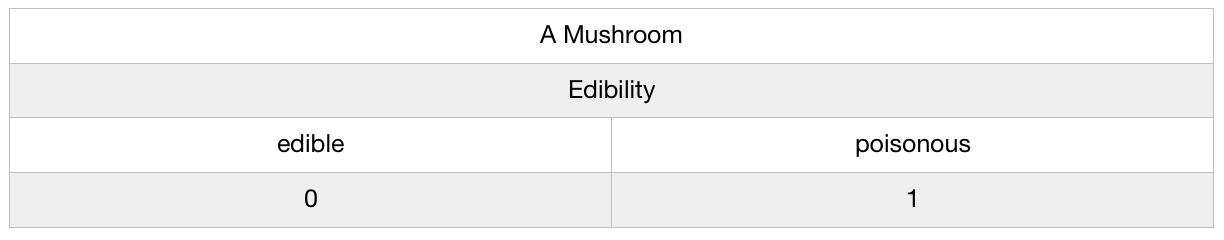
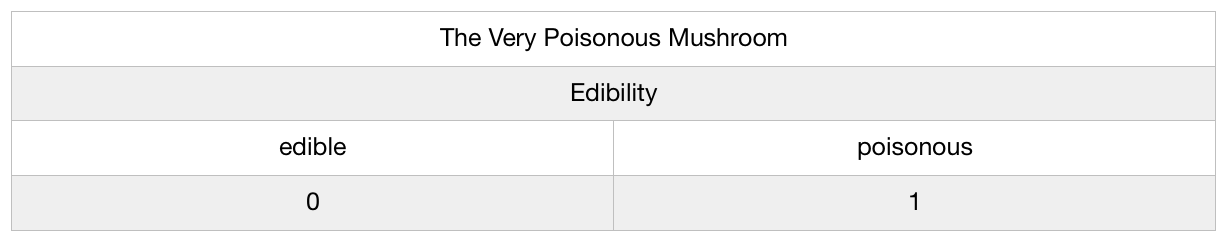
Update the new article.

diff --git a/_posts/2018-02-05-neural-network-for-picking-mushrooms.md b/_posts/2018-02-05-neural-network-for-picking-mushrooms.md
@@ -7,55 +7,75 @@ categories: scala ann knn
 comments: true
 ---
 
-Imagine yourself in a forest picking mushrooms, just for fun or, probably, not to starve to death. How do you decide if a mushroom is edible or poisonous? Is there a way to utilize a neural network to help you with the decision? And, finally, can you come up with a simpler, but more efficient solution? Let's figure it out!
+Imagine yourself in a forest picking mushrooms, just for fun or, probably, not to starve to death. How do you decide if a mushroom is edible or poisonous? Is there a way to utilize an artificial neural network to help you with the decision? And, finally, can you come up with a simpler, but more efficient solution? Let's figure it out!
+
+<img alt="Mushroom" src="{{ site.url }}{{ page.image }}">
 
 ### Test Data
 
 Before we start, we need to study some mushrooms to collect the test data. Unfortunately, currently there is a winter in my region, so at the moment it is difficult for me to collect the data myself. But, luckily, the test data is already available in the [UC Irvine Machine Learning Repository](https://archive.ics.uci.edu/ml/datasets/mushroom).
 
-### Artificial Neural Network
+I am splitting the data into two equal parts. The first part is called *training data*. It will be used to train the neural network. The second part is called *evaluation data*. It will be used to evaluate how well the neural network can classify unknown mushrooms as edible or poisonous.
 
-I am splitting the data into 2 equal parts. The first part is called *training data*. It will be used to train the neural network. The second part is called *evaluation data*. It will be used to evaluate how well the neural network can classify unknown mushrooms as edible or poisonous.
+### Artificial Neural Network: Design
 
-The neural network should take a mushroom as a parameter and say if it is edible or poisonous. The input layer of the neural network consists of a certain number of the neurons. In our case, each neuron can get a value from 0 to 1 inclusively. The same for the output layer: it has a given number of neurons, each neuron can take a value from 0 to 1 inclusively.
+The neural network should take a mushroom as an input and say if it is edible or poisonous. The input layer of the neural network consists of a certain number of neurons. In our case, each neuron can take a value from 0 to 1 inclusively. The same for the output layer: it has a given number of neurons, each neuron can return a value from 0 to 1 inclusively.
+
+You can think of the neural network as a function. The function takes multiple parameters. Each parameter may vary from 0 to 1. The function returns multiple values. Each return value also varies from 0 to 1.
 
 Let's, first of all, decide, how many neurons the input layer should have and how to represent a mushroom as the input.
 
 Each mushroom has 22 features (like cap shape, odor, veil color, etc.). Each feature can take from 2 to 12 values. For example, the veil color can be brown, orange, white or yellow.
 
-There is [a number of ways](https://www.researchgate.net/post/How_to_code_categorical_inputs_for_a_neural_network) how to "feed" such mushroom to the neural network. It will be quite easy to explain by the simplified example the way I picked for our task.
+There is [a number of ways](https://www.researchgate.net/post/How_to_code_categorical_inputs_for_a_neural_network) how to "feed" such mushroom to the neural network. I'm going to explain by example the way I picked for our mushroom problem.
 
-Imagine for simplicity that each mushroom has only 2 features: veil type and veil color. Veil type can be partial or universal, veil color can be brown, orange, white or yellow. Such potential mushroom can be described by the below table. For the concrete mushroom I meet in the forest I can replace question marks with a value. The value will be 0 or 1.
+Imagine for simplicity that each mushroom has only 2 features: veil type and veil color. The veil type can be _partial_ or _universal_, the veil color can be _brown_, _orange_, _white_ or _yellow_. Such potential mushroom can be described by the below table.
 
-<img alt="A Mushroom" src="{{ site.url }}/assets/a-mushroom.png">
+<img alt="An Abstract Mushroom" src="{{ site.url }}/assets/an-abstract-mushroom.png">
 
-Imagine I met the mushroom with the partial white veil. Then the table will look like on the next picture. The 0's and the 1's form the `(1, 0, 0, 0, 1, 0)` vector which will be passed to the neural network.
+Imagine I met the mushroom with the _partial white_ veil. This means I can substitute question marks with values. Each value will be 0 or 1. The table now looks like on the below picture. The zeros and the ones now form the `(1, 0, 0, 0, 1, 0)` vector which I can pass to the neural network.
 
-<img alt="The Concrete Mushroom" src="{{ site.url }}/assets/first-mushroom.png">
+<img alt="The Mushroom With The Partial White Veil" src="{{ site.url }}/assets/the-mushroom-with-the-partial-white-veil.png">
 
-If it was the universal yellow veil, the vector would be `(0, 1, 0, 0, 0, 1)`. I hope you can catch the idea now.
+Similarly, if it was the _universal yellow_ veil, the vector would be `(0, 1, 0, 0, 0, 1)`. I hope you can catch the idea now.
 
-Applying the above approach for the real (slightly bigger) number of features, I have the 126 neurons in the input layer. The same approach, applied to the output layer, gives me 2 neurons: the first represents the degree of edibility of a mushroom, the second represents the degree of poisonousness. If, for example, I deal with the poisonous mushroom, the output will be `(0, 1)`<sup>*</sup>.
+Applying the above approach to the real 22 features, I have the 126 neurons in the input layer. The same approach, applied to the output layer, gives me 2 neurons: the first represents the degree of edibility of a mushroom, the second represents the degree of poisonousness. If, for example, I deal with the very poisonous mushroom, the output is `(0, 1)`<sup>*</sup>.
 
 <img alt="Output Layer" src="{{ site.url }}/assets/output-layer.png">
 
-I decided to use perceptron as the type of the network because it [fits well](https://en.wikipedia.org/wiki/Perceptron) the classification problem I am solving. I added the third layer, which is called the dense layer. It is located between input and output layers and has ten neurons. Why ten? Well, there are a [lot of rules of thumb](https://stats.stackexchange.com/questions/181/how-to-choose-the-number-of-hidden-layers-and-nodes-in-a-feedforward-neural-netw) how to pick the number of the neurons in the hidden layer. The real value is always a matter of experiments and optimization. I picked ten using one of such rules of thumb. It is a good value to start with.
+Having agreed on how to represent the inputs and the outputs of the neural network, let's then briefly discuss its type and its hidden layers.
 
-Now, as we agreed on the configuration of the neural network, I already can try to build and train it. To do this I will use [NeuroFlow](https://github.com/zenecture/neuroflow), a powerful Scala library to design, train and evaluate neural networks.
+I decided to use perceptron as the a of the network because it [fits well](https://en.wikipedia.org/wiki/Perceptron) the classification problem I am solving. I added a hidden layer, which is also called a dense layer. It is located between input and output layers and has ten neurons. Why ten? Well, there are a [lot of rules of thumb](https://stats.stackexchange.com/questions/181/how-to-choose-the-number-of-hidden-layers-and-nodes-in-a-feedforward-neural-netw) how to pick the number of the neurons in the hidden layer. The real value is always a matter of experiments and optimization. I picked ten using one of such rules of thumb. It is a good value _to start with_.
 
-<img alt="The Concrete Mushroom" src="{{ site.url }}/assets/training.png">
+### Artificial Neural Network: Training And Evaluation
 
-After the training that took 900 iterations, I can now test the resulting neural network on the real data. The "real data" is the subset of the mushrooms that I had, but it was previously put aside and not used during the neural network training. The tests show that even without the optimization of the network parameters, **the rate<sup>**</sup> of the correct answers is 0.92**, which is quite good.
+Now, as we agreed on the configuration of the neural network, I am ready to build and train it. To do this I will use [NeuroFlow](https://github.com/zenecture/neuroflow), a powerful Scala library to design, train and evaluate neural networks.
 
-### K Nearest Neighbours
+<img alt="Training" src="{{ site.url }}/assets/training.png">
 
-As a small bonus, let's try another algorithm, which is super simple, but shows unexpectedly good results for some tasks. Namely, let's utilize k-nearest neighbours and compare its results with results of the neural network.
+After the training that took 900 iterations, I can now test the resulting neural network on the real data. The "real data" is the subset of the mushrooms that I had, that I previously put aside and didn't use for the neural network training. The tests show that even without the optimization of the network parameters, **the proportion<sup>**</sup> of the correct answers is 0.92**, which is quite good.
 
-The idea of the algorithm is really straightforward: given a mushroom about which I don't know if it is edible or poisonous, I have to find the mushroom from my test data that is the most similar to one I have to classify. Then the edibility of the most similar one will be the edibility I am trying to find.
+Can I improve the result? Apparently, yes. For example, I still could play with the neural network configuration and find the best one. I also could deal with the training data [in the more optimal way](https://towardsdatascience.com/cross-validation-in-machine-learning-72924a69872f), not just by splitting it in half. However, there is another unexpectedly simple algorithm that shows _really_ good results for the mushrooms problem.
 
-The algorithm can be improved by picking multiple most similar mushrooms, say, 3. In this case, the class, that the most of the similar mushrooms have, is going to be the one we are looking for.
+### K Nearest Neighbours: The Main Idea
 
-The main thing I need to decide here is how to measure the similarity. There are [quite a few](https://en.wikipedia.org/wiki/Metric_(mathematics)) ways how I can do it, but the [Hamming distance](https://en.wikipedia.org/wiki/Hamming_distance) fits my needs very well. The "distance" between two mushrooms will be a number of features in which the mushrooms have different values. The shorter the distance, the more similar the mushrooms are. If the first one has the brown cap and the white stalk, and the second one also has the brown cap, but the gray stalk, the distance will be 0 + 1 = 1. If we are comparing 2 identical mushrooms, the number of features with different values is, obviously, 0, so the distance also is 0, as expected.
+As agreed above, let's utilize k-nearest neighbours and compare its results with results of the neural network.
+
+The idea of the algorithm is really straightforward: given a mushroom about which I don't know if it is edible or poisonous, I have to find the mushroom from my test data that is _the most similar_ to one I have to classify. Then the edibility of the most similar one will be the edibility I am trying to find.
+
+The algorithm can be improved by picking multiple most similar mushrooms, say, three. In this case, the edibility that the most of these three mushrooms have is going to be the one I'm looking for.
+
+### K Nearest Neighbours: Similarity Of Two Mushrooms
+
+The main thing I need to decide here is how to measure the similarity. There are [quite a few](https://en.wikipedia.org/wiki/Metric_(mathematics)) ways how I can do it, but the [Hamming distance](https://en.wikipedia.org/wiki/Hamming_distance) fits my needs very well. The Hamming distance between two mushrooms is a number of features in which the mushrooms have different values. The smaller the distance, the more similar the mushrooms are.
+
+If the first mushroom has the _brown_ cap and the _white_ stalk, and the second one also has the _brown_ cap, but the _gray_ stalk, the distance will be 1, as they differ only in one feature, only in the stalk color.
+
+<img alt="Distance" src="{{ site.url }}/assets/distance.png">
+
+By the way, if I'm comparing two identical mushrooms, the number of features with different values is, obviously, 0, so the distance also is 0, as expected. Identical mushrooms are "as similar as possible".
+
+### K Nearest Neighbours: Implementation And Evaluation
 
 In the light of the above, it is now trivial to implement the algorithm:
 
@@ -74,12 +94,16 @@ class NearestNeighbor {
 }
 ```
 
-The algorithm even does not need the training phase. When I run the algorithm against the set of the evaluation data, I have the very good result: **the rate of the correct answers is 0.98**, even better than the neural network can propose.
+The algorithm even does not need the training phase. When I run the algorithm against the set of the evaluation data, I have the very good result: **the proportion of the correct answers is 0.98**, even better than the neural network has shown.
 
 ### To Summarize
 
-Next time when I will go to a forest, I will test the model on the real data. It does not work in 100% of cases. However, that is natural: if there is a model that covers 100% cases, it is a sign that most likely something went wrong.
+Neural networks is a powerful tool that can be applied in a lot of different areas. They even can support you during mushrooms picking, as you have just seen. Moreover, there is no magic behind them: a neural network is just a function of (usually) multiple arguments.
+
+However, sometimes the simpler solution is the better. As I have just demonstrated, for the mushrooms picking problem, k nearest neighbours shows even better result than the neural network.
+
+The full implementation of both [the neural network](https://github.com/yaskovdev/data-science-sandbox/tree/master/mushrooms-neural-network) and [the k nearest neighbours](https://github.com/yaskovdev/data-science-sandbox/tree/master/mushrooms-knn) is available in GitHub.
 
 <sup>*</sup> In reality it will be something like (0.00087, 0.99841). As I need to clearly state "edible" or "poisonous", I will just compare these 2 numbers. If the first is bigger, then I claim "edible", otherwise "poisonous".
 
-<sup>**</sup> The rate is just the ratio between the number of the correct answers given by the neural network and the total number of the mushrooms in the test data. This is the most naive way to evaluate a model. It has a lot of disadvantages. For example it does not pay attention to the proportion of the classes in the test data. However because of its simplicity it can be used for illustration purposes.
+<sup>**</sup> The ratio between the number of the correct answers given by the neural network and the total number of the mushrooms in the test data. This is the most naive way to evaluate a model. It has a lot of disadvantages. For example it does not pay attention to the proportion of the classes in the test data. However because of its simplicity it can be used for illustration purposes.
